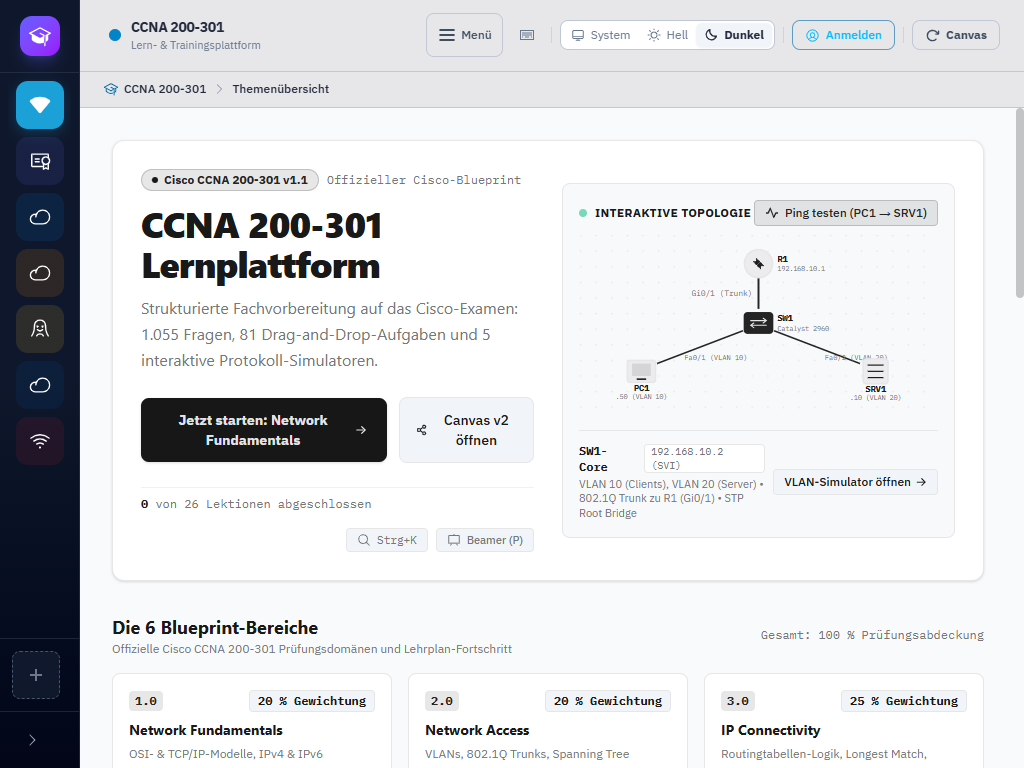
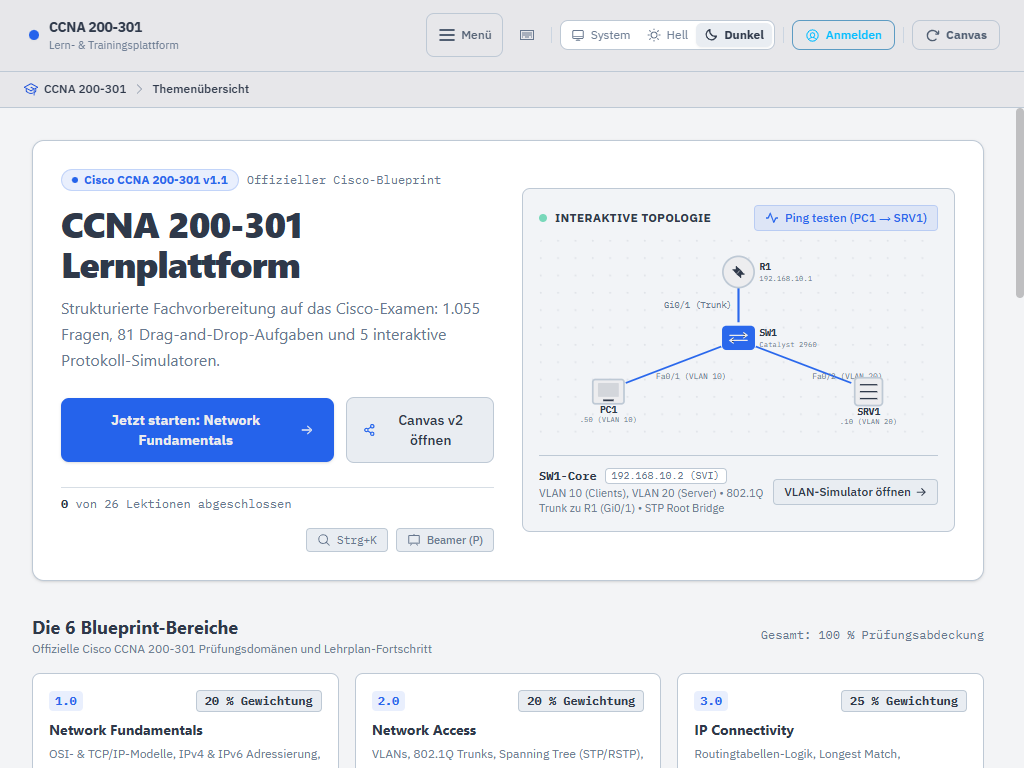
style(theme): soften color palette to eye-friendly, calm Cisco-press tones

diff --git a/src/index.css b/src/index.css
@@ -8,36 +8,36 @@
 }
 
 :root {
-  /* ── Core Surface & Background Tokens (Light Mode) ────────── */
-  --app-bg: #F8FAFC;
-  --surface: #FFFFFF;
-  --surface-elevated: #F1F5F9;
-  --surface-sunken: #E2E8F0;
-  --border-subtle: #E2E8F0;
-  --border-default: #CBD5E1;
-  --border-accent: #0284C7;
+  /* ── Core Surface & Background Tokens (Light Mode - Eye-Friendly Warm Neutral) ────────── */
+  --app-bg: #F3F4F6;            /* Soft warm paper-gray (cuts screen glare) */
+  --surface: #FFFFFF;           /* Clean card surface resting on warm neutral background */
+  --surface-elevated: #E9EDF2;  /* Subtle tinted inner containers & tool wells */
+  --surface-sunken: #DEE3E9;
+  --border-subtle: #E2E7ED;
+  --border-default: #CBD5E1;    /* Balanced slate border */
+  --border-accent: #2563EB;     /* Cisco Royal Blue */
 
-  /* ── Typography Text Tokens (Light Mode - WCAG AA >= 4.5:1) ─ */
-  --text-primary: #0F172A;
-  --text-secondary: #334155;
-  --text-muted: #64748B;
+  /* ── Typography Text Tokens (Light Mode - WCAG AAA >= 11:1, Soft Charcoal) ─ */
+  --text-primary: #1E293B;       /* Deep slate charcoal (softer on retina than harsh ink black #0F172A) */
+  --text-secondary: #475569;     /* Balanced medium slate */
+  --text-muted: #64748B;         /* Restrained secondary label */
 
-  /* ── Interactive & Accent Tokens (Light Mode) ─────────────── */
-  --accent-primary-fg: #0369A1;
-  --accent-primary: #0284C7;
+  /* ── Interactive & Accent Tokens (Light Mode - Cisco Professional Navy/Steel Blue) ─────────────── */
+  --accent-primary-fg: #1D4ED8;  /* Deep blue for links/text (WCAG AA 5.9:1) */
+  --accent-primary: #2563EB;     /* Cisco Blue for buttons & active states */
 
   /* ── Solid Surface & Action Tokens (Light Mode - WCAG AA >= 4.5:1) ─ */
-  --accent-solid: #0369A1;
+  --accent-solid: #1D4ED8;
   --on-accent-solid: #FFFFFF;
-  --status-success-solid: #047857;
+  --status-success-solid: #059669;
   --on-status-success-solid: #FFFFFF;
-  --status-warning-solid: #F59E0B;
-  --on-status-warning-solid: #090D16;
+  --status-warning-solid: #D97706;
+  --on-status-warning-solid: #FFFFFF;
   --status-error-solid: #DC2626;
   --on-status-error-solid: #FFFFFF;
   --status-trunk-solid: #4F46E5;
   --on-status-trunk-solid: #FFFFFF;
-  --status-blocking-solid: #C2410C;
+  --status-blocking-solid: #EA580C;
   --on-status-blocking-solid: #FFFFFF;
 
   /* ── Status Tokens (Light Mode - WCAG AA Verified) ───────── */
@@ -64,7 +64,7 @@
   /* ── Terminal Tokens (Console - Identical in both themes) ─── */
   --terminal-bg: #0B0F19;
   --terminal-fg: #E2E8F0;
-  --terminal-prompt: #38BDF8;
+  --terminal-prompt: #60A5FA;
   --terminal-cmd: #FFFFFF;
   --terminal-muted: #94A3B8;
   --terminal-selection: #1E293B;
@@ -84,11 +84,11 @@
   --card-foreground: var(--text-primary);
   --popover: var(--surface);
   --popover-foreground: var(--text-primary);
-  --primary: var(--accent-primary-fg);
+  --primary: var(--accent-primary);
   --primary-foreground: #FFFFFF;
   --secondary: var(--surface-elevated);
   --secondary-foreground: var(--text-secondary);
-  --muted: var(--surface-sunken);
+  --muted: var(--surface-elevated);
   --muted-foreground: var(--text-muted);
   --accent: var(--surface-elevated);
   --accent-foreground: var(--text-primary);
@@ -103,63 +103,63 @@
 }
 
 .dark {
-  /* ── Core Surface & Background Tokens (Dark Mode) ─────────── */
-  --app-bg: #090D16;
-  --surface: #0F172A;
-  --surface-elevated: #1E293B;
-  --surface-sunken: #060911;
+  /* ── Core Surface & Background Tokens (Dark Mode - Deep Slate Eye Comfort) ─────────── */
+  --app-bg: #0B111E;            /* Balanced deep midnight slate (replaces OLED ink pitch-black #090D16) */
+  --surface: #151D2D;           /* Resting dark surface (slate-850) */
+  --surface-elevated: #1E293B;  /* Slate-800 elevated panels */
+  --surface-sunken: #070B13;
   --border-subtle: #1E293B;
-  --border-default: #334155;
-  --border-accent: #38BDF8;
+  --border-default: #2A3649;    /* Restrained, non-glaring slate border */
+  --border-accent: #60A5FA;
 
-  /* ── Typography Text Tokens (Dark Mode) ──────────────────── */
-  --text-primary: #F8FAFC;
+  /* ── Typography Text Tokens (Dark Mode - Soft Off-White) ──────────────────── */
+  --text-primary: #F1F5F9;       /* Soft off-white (prevents neon contrast glare against dark background) */
   --text-secondary: #CBD5E1;
   --text-muted: #94A3B8;
 
-  /* ── Interactive & Accent Tokens (Dark Mode) ──────────────── */
-  --accent-primary-fg: #38BDF8;
-  --accent-primary: #0284C7;
+  /* ── Interactive & Accent Tokens (Dark Mode - Cisco Soft Blue) ──────────────── */
+  --accent-primary-fg: #60A5FA;  /* Soft cornflower blue (replaces neon electric cyan #38BDF8) */
+  --accent-primary: #3B82F6;     /* Balanced Cisco Blue */
 
   /* ── Solid Surface & Action Tokens (Dark Mode - WCAG AA >= 4.5:1) ── */
-  --accent-solid: #38BDF8;
-  --on-accent-solid: #090D16;
+  --accent-solid: #3B82F6;
+  --on-accent-solid: #0B111E;
   --status-success-solid: #34D399;
-  --on-status-success-solid: #090D16;
+  --on-status-success-solid: #0B111E;
   --status-warning-solid: #FBBF24;
-  --on-status-warning-solid: #090D16;
-  --status-error-solid: #DC2626;
+  --on-status-warning-solid: #0B111E;
+  --status-error-solid: #EF4444;
   --on-status-error-solid: #FFFFFF;
   --status-trunk-solid: #818CF8;
-  --on-status-trunk-solid: #090D16;
+  --on-status-trunk-solid: #0B111E;
   --status-blocking-solid: #FB923C;
-  --on-status-blocking-solid: #090D16;
+  --on-status-blocking-solid: #0B111E;
 
   /* ── Status Tokens (Dark Mode) ───────────────────────────── */
   --status-success-fg: #34D399;
-  --status-success-bg: rgba(16, 185, 129, 0.15);
+  --status-success-bg: rgba(16, 185, 129, 0.12);
   --status-success-border: #059669;
 
   --status-warning-fg: #FBBF24;
-  --status-warning-bg: rgba(245, 158, 11, 0.15);
+  --status-warning-bg: rgba(245, 158, 11, 0.12);
   --status-warning-border: #D97706;
 
   --status-error-fg: #F87171;
-  --status-error-bg: rgba(239, 68, 68, 0.15);
+  --status-error-bg: rgba(239, 68, 68, 0.12);
   --status-error-border: #DC2626;
 
   --status-trunk-fg: #818CF8;
-  --status-trunk-bg: rgba(99, 102, 241, 0.15);
+  --status-trunk-bg: rgba(99, 102, 241, 0.12);
   --status-trunk-border: #6366F1;
 
   --status-blocking-fg: #FB923C;
-  --status-blocking-bg: rgba(249, 115, 22, 0.15);
+  --status-blocking-bg: rgba(249, 115, 22, 0.12);
   --status-blocking-border: #EA580C;
 
   /* ── Terminal Tokens (Dark Mode) ─────────────────────────── */
   --terminal-bg: #0B0F19;
   --terminal-fg: #E2E8F0;
-  --terminal-prompt: #38BDF8;
+  --terminal-prompt: #60A5FA;
   --terminal-cmd: #FFFFFF;
   --terminal-muted: #94A3B8;
   --terminal-selection: #1E293B;
@@ -173,7 +173,7 @@
   --popover: var(--surface);
   --popover-foreground: var(--text-primary);
   --primary: var(--accent-primary-fg);
-  --primary-foreground: #090D16;
+  --primary-foreground: #0B111E;
   --secondary: var(--surface-elevated);
   --secondary-foreground: var(--text-secondary);
   --muted: var(--surface-elevated);

diff --git a/src/main.css b/src/main.css
@@ -44,74 +44,76 @@
 */
 :root {
   --radius: 0.625rem;
-  --background: oklch(1 0 0);
-  --foreground: oklch(0.145 0 0);
-  --card: oklch(1 0 0);
-  --card-foreground: oklch(0.145 0 0);
-  --popover: oklch(1 0 0);
-  --popover-foreground: oklch(0.145 0 0);
-  --primary: oklch(0.205 0 0);
-  --primary-foreground: oklch(0.985 0 0);
-  --secondary: oklch(0.97 0 0);
-  --secondary-foreground: oklch(0.205 0 0);
-  --muted: oklch(0.97 0 0);
-  --muted-foreground: oklch(0.556 0 0);
-  --accent: oklch(0.97 0 0);
-  --accent-foreground: oklch(0.205 0 0);
-  --destructive: oklch(0.577 0.245 27.325);
-  --border: oklch(0.922 0 0);
-  --input: oklch(0.922 0 0);
-  --ring: oklch(0.708 0 0);
-  --chart-1: oklch(0.646 0.222 41.116);
-  --chart-2: oklch(0.6 0.118 184.704);
-  --chart-3: oklch(0.398 0.07 227.392);
-  --chart-4: oklch(0.828 0.189 84.429);
-  --chart-5: oklch(0.769 0.188 70.08);
-  --sidebar: oklch(0.985 0 0);
-  --sidebar-foreground: oklch(0.145 0 0);
-  --sidebar-primary: oklch(0.205 0 0);
-  --sidebar-primary-foreground: oklch(0.985 0 0);
-  --sidebar-accent: oklch(0.97 0 0);
-  --sidebar-accent-foreground: oklch(0.205 0 0);
-  --sidebar-border: oklch(0.922 0 0);
-  --sidebar-ring: oklch(0.708 0 0);
+  --background: var(--app-bg);
+  --foreground: var(--text-primary);
+  --card: var(--surface);
+  --card-foreground: var(--text-primary);
+  --popover: var(--surface);
+  --popover-foreground: var(--text-primary);
+  --primary: var(--accent-primary);
+  --primary-foreground: #FFFFFF;
+  --secondary: var(--surface-elevated);
+  --secondary-foreground: var(--text-secondary);
+  --muted: var(--surface-elevated);
+  --muted-foreground: var(--text-muted);
+  --accent: var(--surface-elevated);
+  --accent-foreground: var(--text-primary);
+  --destructive: var(--status-error-border);
+  --destructive-foreground: #FFFFFF;
+  --border: var(--border-default);
+  --input: var(--border-default);
+  --ring: var(--accent-primary);
+  --chart-1: #2563EB;
+  --chart-2: #059669;
+  --chart-3: #D97706;
+  --chart-4: #4F46E5;
+  --chart-5: #EA580C;
+  --sidebar: var(--surface);
+  --sidebar-foreground: var(--text-primary);
+  --sidebar-primary: var(--accent-primary);
+  --sidebar-primary-foreground: #FFFFFF;
+  --sidebar-accent: var(--surface-elevated);
+  --sidebar-accent-foreground: var(--text-primary);
+  --sidebar-border: var(--border-default);
+  --sidebar-ring: var(--accent-primary);
 }
 
 /*
   ---break---
 */
 .dark {
-  --background: oklch(0.16 0.006 256);
-  --foreground: oklch(0.985 0 0);
-  --card: oklch(0.215 0.008 256);
-  --card-foreground: oklch(0.985 0 0);
-  --popover: oklch(0.215 0.008 256);
-  --popover-foreground: oklch(0.985 0 0);
-  --primary: oklch(0.922 0 0);
-  --primary-foreground: oklch(0.205 0 0);
-  --secondary: oklch(0.27 0.008 256);
-  --secondary-foreground: oklch(0.985 0 0);
-  --muted: oklch(0.27 0.008 256);
-  --muted-foreground: oklch(0.72 0.02 256);
-  --accent: oklch(0.27 0.01 256);
-  --accent-foreground: oklch(0.985 0 0);
-  --destructive: oklch(0.704 0.191 22.216);
-  --border: oklch(1 0 0 / 12%);
-  --input: oklch(1 0 0 / 16%);
-  --ring: oklch(0.62 0.16 252);
-  --chart-1: oklch(0.488 0.243 264.376);
-  --chart-2: oklch(0.696 0.17 162.48);
-  --chart-3: oklch(0.769 0.188 70.08);
-  --chart-4: oklch(0.627 0.265 303.9);
-  --chart-5: oklch(0.645 0.246 16.439);
-  --sidebar: oklch(0.205 0 0);
-  --sidebar-foreground: oklch(0.985 0 0);
-  --sidebar-primary: oklch(0.488 0.243 264.376);
-  --sidebar-primary-foreground: oklch(0.985 0 0);
-  --sidebar-accent: oklch(0.269 0 0);
-  --sidebar-accent-foreground: oklch(0.985 0 0);
-  --sidebar-border: oklch(1 0 0 / 10%);
-  --sidebar-ring: oklch(0.556 0 0);
+  --background: var(--app-bg);
+  --foreground: var(--text-primary);
+  --card: var(--surface);
+  --card-foreground: var(--text-primary);
+  --popover: var(--surface);
+  --popover-foreground: var(--text-primary);
+  --primary: var(--accent-primary-fg);
+  --primary-foreground: #0B111E;
+  --secondary: var(--surface-elevated);
+  --secondary-foreground: var(--text-secondary);
+  --muted: var(--surface-elevated);
+  --muted-foreground: var(--text-muted);
+  --accent: var(--surface-elevated);
+  --accent-foreground: var(--text-primary);
+  --destructive: var(--status-error-border);
+  --destructive-foreground: #FFFFFF;
+  --border: var(--border-default);
+  --input: var(--border-default);
+  --ring: var(--accent-primary-fg);
+  --chart-1: #3B82F6;
+  --chart-2: #34D399;
+  --chart-3: #FBBF24;
+  --chart-4: #818CF8;
+  --chart-5: #FB923C;
+  --sidebar: var(--surface);
+  --sidebar-foreground: var(--text-primary);
+  --sidebar-primary: var(--accent-primary-fg);
+  --sidebar-primary-foreground: #0B111E;
+  --sidebar-accent: var(--surface-elevated);
+  --sidebar-accent-foreground: var(--text-primary);
+  --sidebar-border: var(--border-default);
+  --sidebar-ring: var(--accent-primary-fg);
 }
 
 /*

diff --git a/src/components/dashboard/TopologyHero.tsx b/src/components/dashboard/TopologyHero.tsx
@@ -196,7 +196,7 @@ export function TopologyHero({
               <button
                 type="button"
                 onClick={() => onSelectTopic(lastActiveTopicId)}
-                className="inline-flex items-center justify-center gap-2.5 px-5 py-3 rounded-lg bg-primary hover:bg-primary-hover text-primary-foreground font-semibold text-sm transition-all shadow hover:shadow-md focus:outline-none focus:ring-2 focus:ring-ring focus:ring-offset-2"
+                className="inline-flex items-center justify-center gap-2.5 px-5 py-3 rounded-lg bg-primary hover:bg-primary/90 text-primary-foreground font-semibold text-sm transition-all shadow hover:shadow-md focus:outline-none focus:ring-2 focus:ring-ring focus:ring-offset-2"
               >
                 <span>Weiterlernen: {lastActiveTopicTitle || "Aktuelle Lektion"}</span>
                 <ArrowRight weight="bold" className="h-4 w-4" />
@@ -205,7 +205,7 @@ export function TopologyHero({
               <button
                 type="button"
                 onClick={() => onSelectTopic("networking-fundamentals")}
-                className="inline-flex items-center justify-center gap-2.5 px-5 py-3 rounded-lg bg-primary hover:bg-primary-hover text-primary-foreground font-semibold text-sm transition-all shadow hover:shadow-md focus:outline-none focus:ring-2 focus:ring-ring focus:ring-offset-2"
+                className="inline-flex items-center justify-center gap-2.5 px-5 py-3 rounded-lg bg-primary hover:bg-primary/90 text-primary-foreground font-semibold text-sm transition-all shadow hover:shadow-md focus:outline-none focus:ring-2 focus:ring-ring focus:ring-offset-2"
               >
                 <span>Jetzt starten: Network Fundamentals</span>
                 <ArrowRight weight="bold" className="h-4 w-4" />

diff --git a/src/components/navigation/MobileNavDrawer.tsx b/src/components/navigation/MobileNavDrawer.tsx
@@ -155,10 +155,7 @@ export const MobileNavDrawer: React.FC<MobileNavDrawerProps> = ({
         {/* Drawer Header */}
         <div className="flex items-center justify-between px-4 py-3 border-b border-border-default bg-surface-elevated shrink-0">
           <div className="flex items-center gap-2.5">
-            <div
-              className="w-3 h-3 rounded-full shrink-0 shadow-xs"
-              style={{ backgroundColor: "#0284C7" }}
-            />
+            <div className="w-2.5 h-2.5 rounded-full shrink-0 bg-primary shadow-xs" />
             <div className="min-w-0">
               <span className="text-sm font-bold text-text-primary block truncate">
                 CCNA 200-301

diff --git a/src/components/dashboard/RecentActivitySection.tsx b/src/components/dashboard/RecentActivitySection.tsx
@@ -108,7 +108,7 @@ export function RecentActivitySection({
           <button
             type="button"
             onClick={onStartFirstTopic}
-            className="inline-flex items-center gap-1.5 px-3.5 py-2 rounded bg-primary hover:bg-primary-hover text-primary-foreground font-semibold text-xs transition-colors shrink-0 shadow-sm"
+            className="inline-flex items-center gap-1.5 px-3.5 py-2 rounded bg-primary hover:bg-primary/90 text-primary-foreground font-semibold text-xs transition-colors shrink-0 shadow-sm"
           >
             <span>Erste Lektion starten</span>
             <ArrowRight className="h-3.5 w-3.5" />

diff --git a/src/components/navigation/AppHeader.tsx b/src/components/navigation/AppHeader.tsx
@@ -273,10 +273,7 @@ export const AppHeader: React.FC<AppHeaderProps> = ({
           title="Zur CCNA-Startseite"
           aria-label="CCNA 200-301 Startseite"
         >
-          <div
-            className="w-3 h-3 rounded-full shrink-0 shadow-xs"
-            style={{ backgroundColor: "#0284C7" }}
-          />
+          <div className="w-2.5 h-2.5 rounded-full shrink-0 bg-primary shadow-xs" />
           <div className="min-w-0">
             <div className="flex items-center gap-1">
               <span className="text-sm font-bold text-text-primary tracking-tight">
